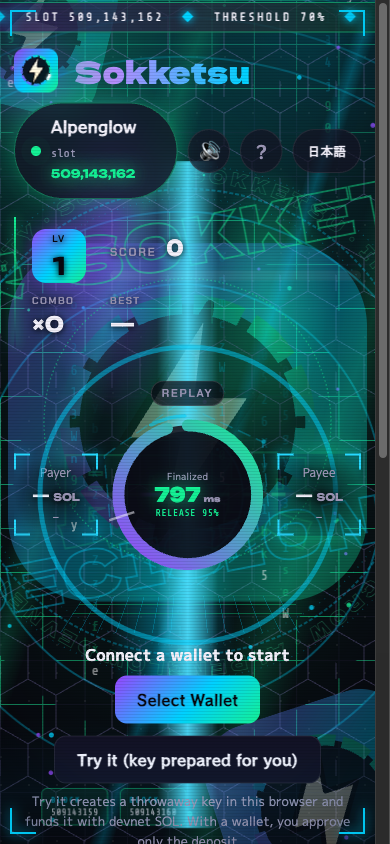
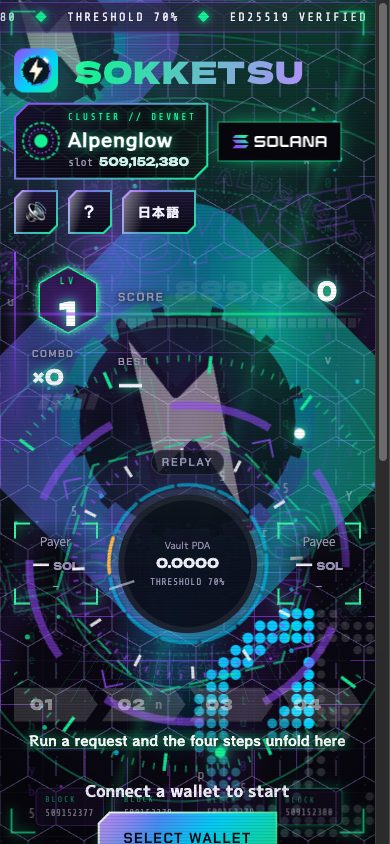
docs(brand): 最新の画面と、ロゴの置き場所・表記・取り入れた手法を記録する (#56)
Generated by Claude Code

diff --git a/docs/brand/README.md b/docs/brand/README.md
@@ -37,17 +37,23 @@
 - 手前の層（`OverdriveFront`）：周辺減光・走査線・グリッチの帯・四隅の HUD 枠・目盛り・計器の読み・REC とタイムコード
 - 舞台（`VaultHalo`・`StageDeck`）：レーダー・六角形・弧・衛星・文字の環・目盛り（外と内）・判断の 3 択の軌道・照準・矢印・四方の読み・衝撃波・光の柱・床・巨大な「即決」・4 工程のランプ。段階が変わるたびに内から外へ順に展開する
 - 背景の層は止めた絵として濃く重ね、動きは舞台・データの雨・ティッカーなど狭い面積に集める。画面全体が少しずつ動く層は、headless の録画でコマが落ちる割に動画の尺では動いて見えないため
-- Solana の公式ロゴ（`app/public/brand/solana-logo.svg`）は配布元（solana.com/branding）の SVG と SHA-256 で一致するものをそのまま使い、フッターの無地の余白の中に 1 か所だけ置く。変形・影・縁取り・色変え・ほかの図像との重ね合わせはしない。Solana Foundation と提携していない旨を併記する
+- Solana の公式ロゴ（`app/public/brand/solana-logo.svg`）は配布元（solana.com/branding）の SVG と SHA-256 で一致するものをそのまま使い、ヘッダーの専用の枠（内側は無地の余白）に 1 か所だけ置く。導入の展開もこの枠にはかけない。変形・影・縁取り・色変え・ほかの図像との重ね合わせはしない。Solana Foundation と提携していない旨を併記する
 - 既定の表示言語は英語。右上のボタンで日本語に切り替えられ、選んだ言語を覚える
+- ワードマークは大文字（SOKKETSU）で見せる。HUD のラベルや Solana のワードマークとそろえるため。文字列は Sokketsu のまま（読み上げで 1 文字ずつ読まれないように）。文章の中では Sokketsu と書く
+- 広い画面（1100px 以上・高さ 700px 以上）はスクロールなしで全部を見せる（ファーストビュー）
+- エスクローの 4 工程の帯（`EscrowSteps`）：いまの工程が開き、何が起きているかを 1 文で出す
+- HUD の部品（`app/src/hudkit.css`）：ボタン・レベル・スコア・コンボ・Alpenglow の計器を、角を切り落とした同じ作りにそろえる
+- prompt-motion.com から取り入れた手法：判断のリール（spearwtf-3c1fd1）・照準が締まる（reflex-cloud-72ffe5）・点の格子のマーク（kyonax-on-tech-aabc1d ほか。工程ごとに 25% 灯る）・計器が中央から開く導入（dale-vaz-cc612a）
+- 背景の巨大ロゴ・文字の円環・軌道は、ダイヤルのように段階的に回す（コマの合間は止まるので録画の負荷が小さい）
 
-画面の確認: `cockpit-1280x900.png`（判断中）・`cockpit-390x844.png`（確定の瞬間）。
+画面の確認: `cockpit-1280x900.png`（判断中）・`cockpit-390x844.png`（確定）。
 
 待機中の動きの量（`tools/motion`・10 秒）：
 
 | 条件 | 本番（改修前） | 改修後（ローカル） |
 |---|---|---|
-| 1280×900 静止 / 平均 | 5% / 10.24% | 31% / 9.50% |
-| 390×844 静止 / 平均 | 0% / 10.23% | 0% / 17.45% |
-| reduced-motion 静止 | — | 84% |
+| 1280×900 静止 / 平均 | 5% / 10.24% | 31% / 13.94% |
+| 390×844 静止 / 平均 | 0% / 10.23% | 0% / 18.14% |
+| reduced-motion 静止 | — | 85% |
 
 1280×900 の静止の増加は、GPU の無い headless の録画で同じコマが並ぶことによる（GPU のあるブラウザでは 60fps）。
